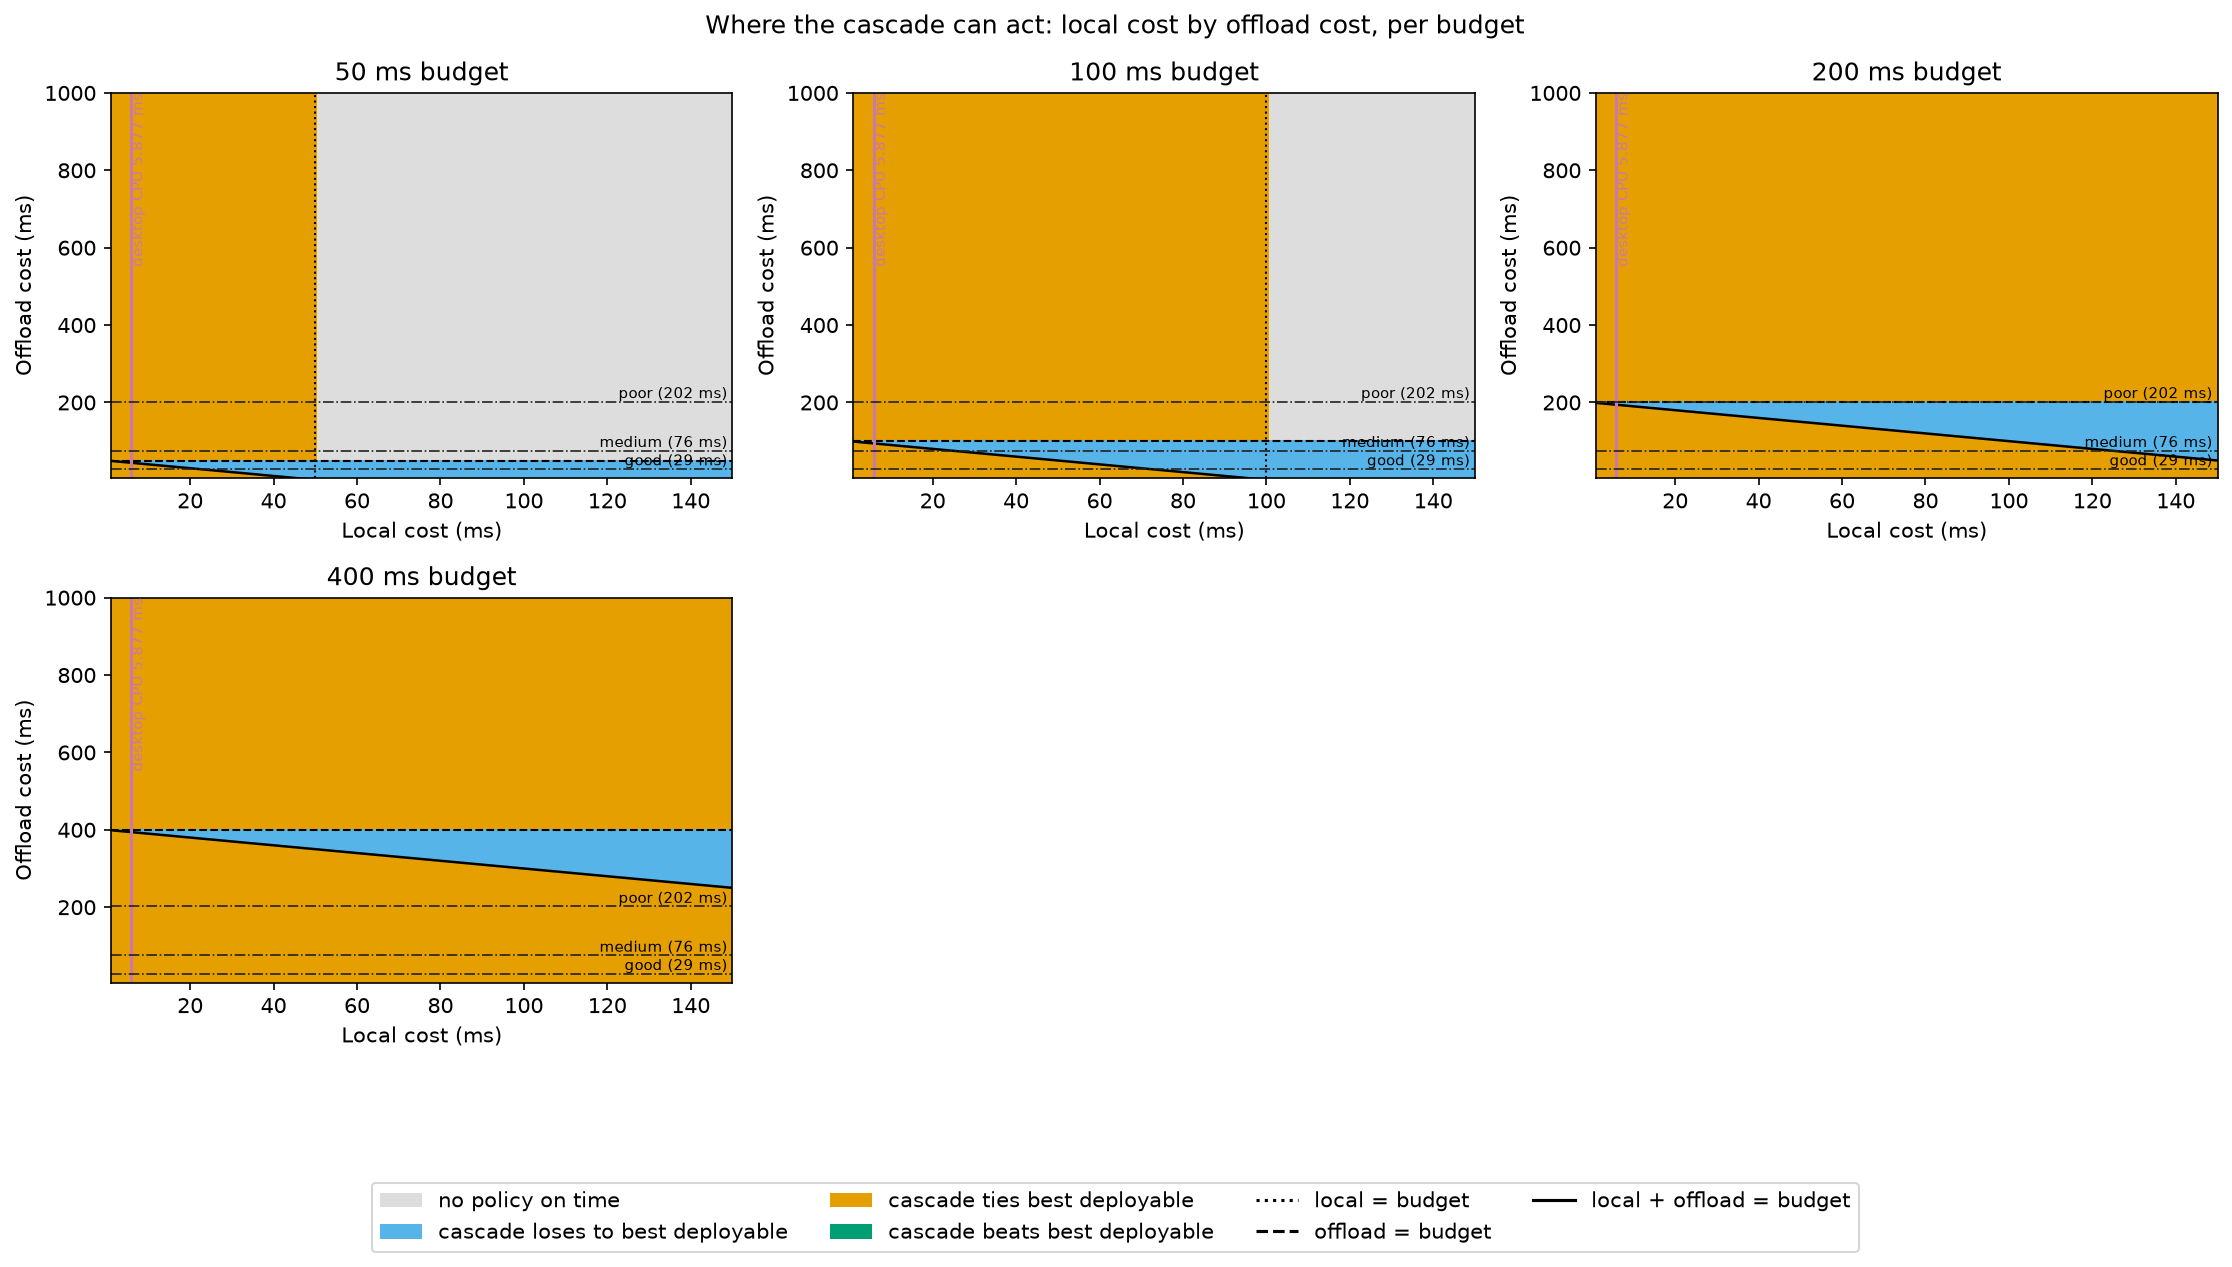
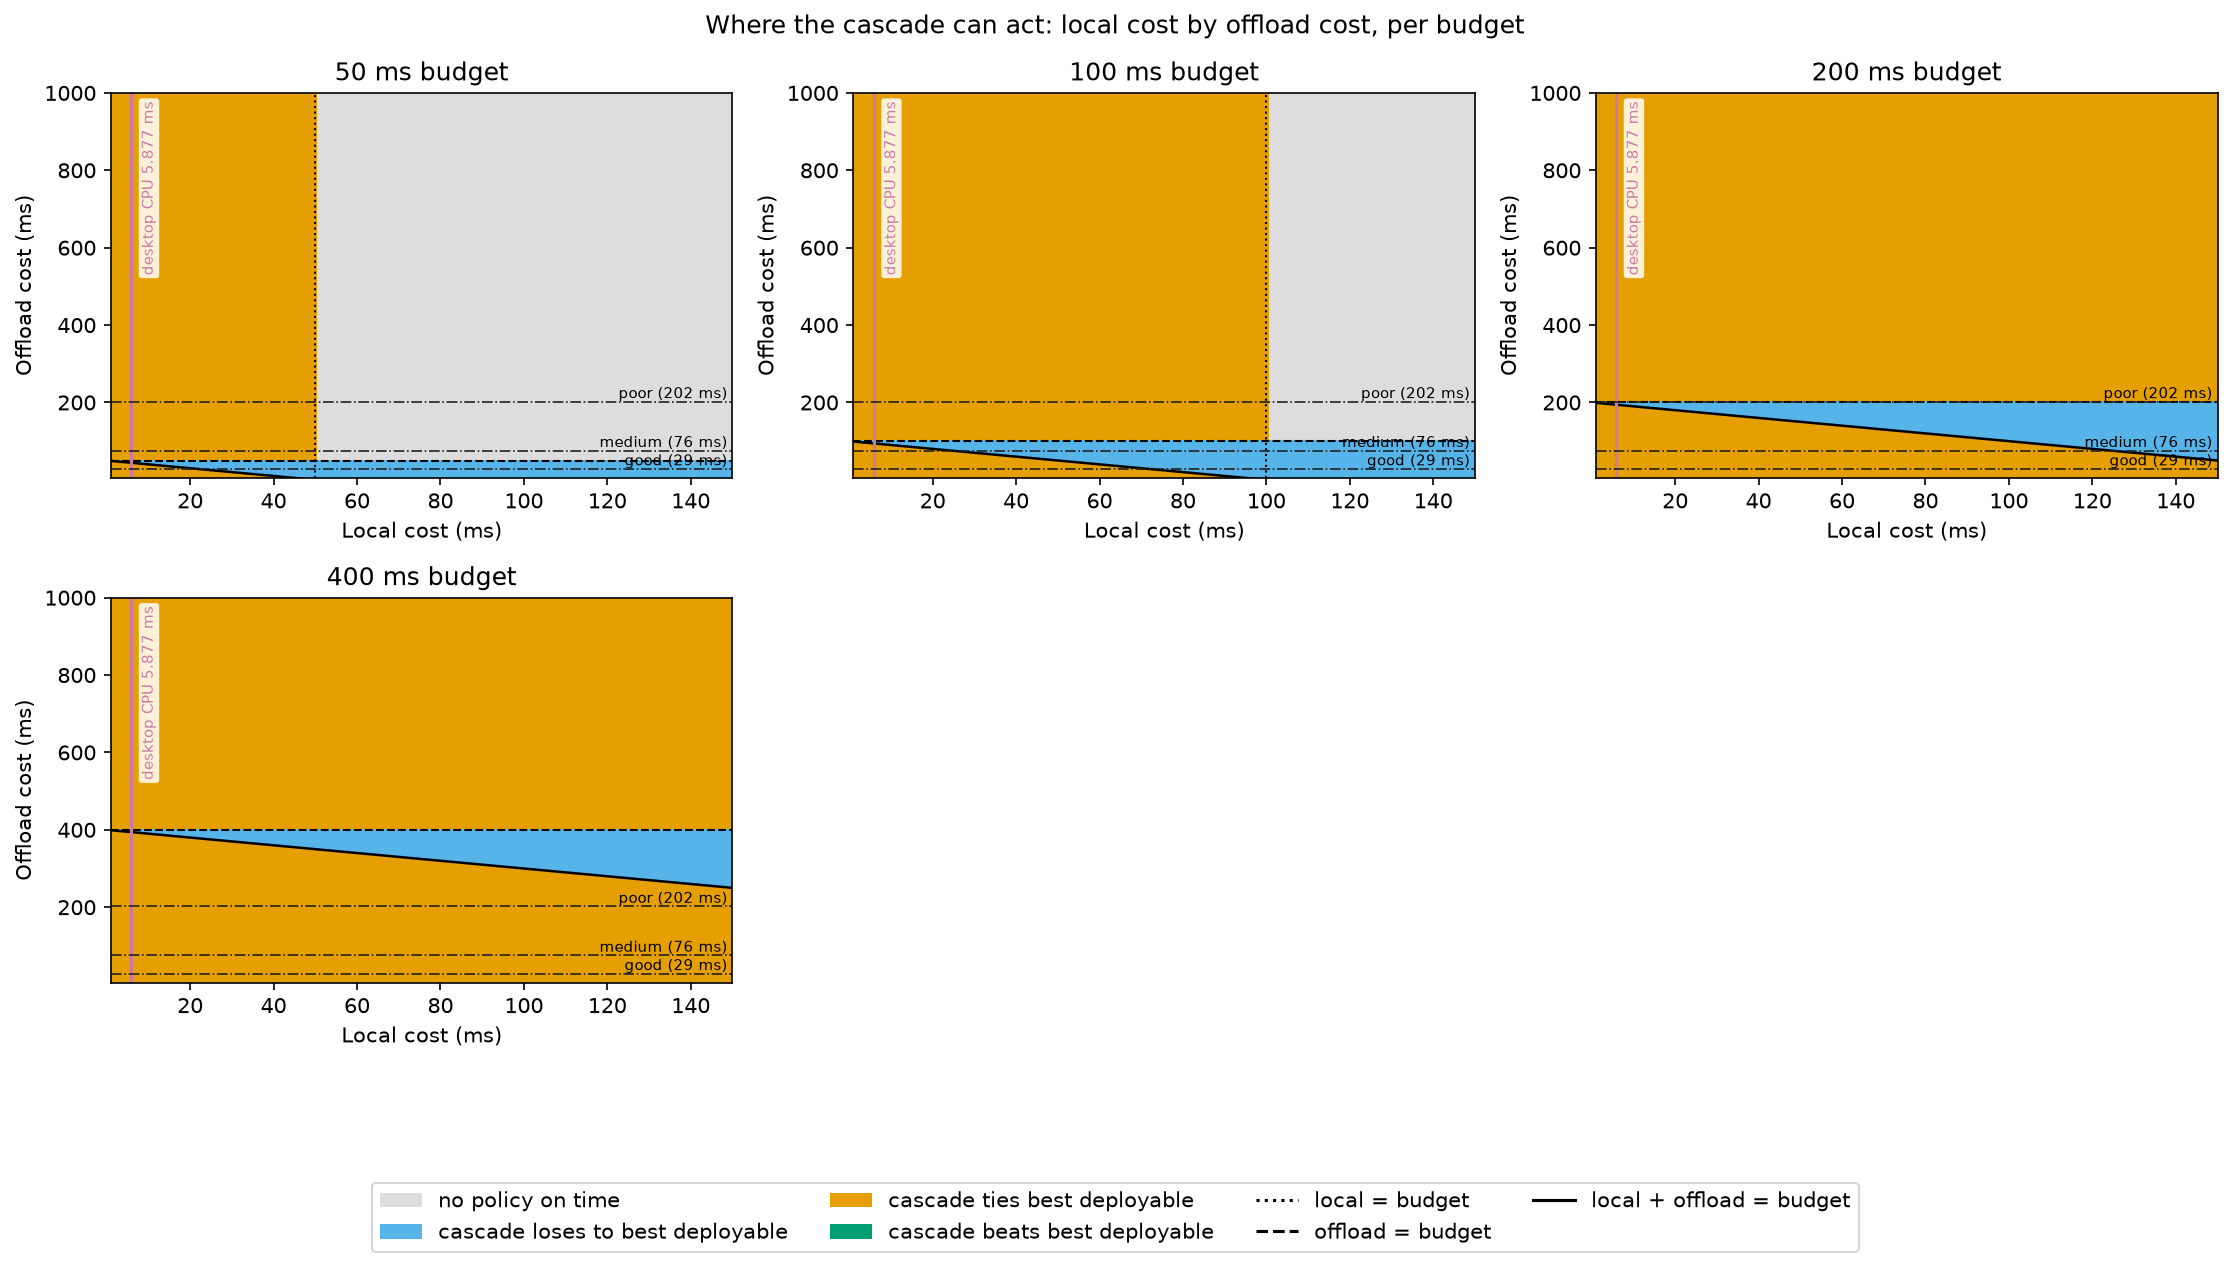
Report the always-local interval and fix the desktop mark label
The spec's acceptance criterion asks for 95% bootstrap intervals against
budget-only and against always-local. `vs_always_local` was computed but
never printed, so the report met only half of it; `format_report` had no
test at all, which is how it slipped through. Adds one.

The interval is worth having: wherever escalation is affordable the cascade
beats always-local by [+0.0803, +0.0999], bracketing the 0.0901 small-to-
large gap. The cascade buys the large model's accuracy and pays local +
offload to do it, so its failure against budget-only is one of redundancy
under a hard budget, not of accuracy. The write-up now says so.

Also gives the desktop-CPU mark a background box; pink on orange inside a
filled region was illegible in the rendered figure.

diff --git a/training/birds/router/boundary_plot.py b/training/birds/router/boundary_plot.py
@@ -119,15 +119,26 @@ def _draw_panel(ax: Axes, panel: BoundaryPanelData, marks: BoundaryMarks) -> Non
 
     # Marks: desktop measurement on the local axis, named conditions on the offload axis.
     ax.axvline(marks.desktop_local_ms, color="#CC79A7", linewidth=1.5)
-    ax.text(
-        marks.desktop_local_ms,
-        offload[-1],
-        f" desktop CPU {marks.desktop_local_ms:g} ms",
+    # Offset in points, not data units, so the label clears the line it annotates instead of
+    # overprinting it at any axis scale.
+    ax.annotate(
+        f"desktop CPU {marks.desktop_local_ms:g} ms",
+        xy=(marks.desktop_local_ms, offload[-1]),
+        xytext=(5, -4),
+        textcoords="offset points",
         color="#CC79A7",
         fontsize=7,
         rotation=90,
         va="top",
         ha="left",
+        # The label sits inside a filled region, so it needs its own background to stay
+        # legible against the fill colours.
+        bbox={
+            "boxstyle": "round,pad=0.2",
+            "facecolor": "white",
+            "edgecolor": "none",
+            "alpha": 0.85,
+        },
     )
     for name, offload_ms in marks.condition_offload_ms.items():
         ax.axhline(offload_ms, color="#222222", linewidth=0.8, linestyle="-.")

diff --git a/training/birds/router/budget_experiment.py b/training/birds/router/budget_experiment.py
@@ -370,10 +370,14 @@ def format_report(
                 ]
                 for measure, c in result.cascades.items():
                     lo, hi = c.vs_budget_only.ci_low, c.vs_budget_only.ci_high
+                    local_lo, local_hi = c.vs_always_local.ci_low, c.vs_always_local.ci_high
+                    # Both intervals are reported, per the spec; only the budget-only one
+                    # decides usefulness.
                     lines.append(
                         f"  cascade ({measure}): threshold {c.threshold:.4f}, escalates "
                         f"{c.escalated_share:.2%}, vs budget-only 95% CI [{lo:+.4f}, {hi:+.4f}] "
-                        f"-> {'useful' if c.useful else 'not useful'}; fewest escalations to "
+                        f"-> {'useful' if c.useful else 'not useful'}; vs always-local 95% CI "
+                        f"[{local_lo:+.4f}, {local_hi:+.4f}]; fewest escalations to "
                         f"match always-offload: {c.fewest_escalations_to_match}"
                     )
         lines.append("")

diff --git a/training/tests/birds/router/test_budget_experiment.py b/training/tests/birds/router/test_budget_experiment.py
@@ -23,6 +23,7 @@ from birds.router.budget_experiment import (
     PhotoRecords,
     evaluate_cell,
     fewest_escalations_to_match,
+    format_report,
     grid_accuracy,
     records_from_frames,
     run_on_engine,
@@ -274,3 +275,14 @@ def test_missing_records_stop_the_run_and_write_nothing(postgres_engine: Engine)
         else:
             raise AssertionError("missing records should stop the run")
         assert not figure.exists()
+
+
+def test_report_shows_both_bootstrap_intervals() -> None:
+    """The spec requires an interval against budget-only *and* against always-local."""
+    result = evaluate_cell(_tiny(), _tiny(), Cell(local_ms=10.0, offload_ms=30.0, budget_ms=50.0))
+    report = format_report({50.0: {"good": [result]}}, {"good": 30.0})
+
+    for measure in ("max_probability", "top2_margin"):
+        assert f"cascade ({measure}): threshold" in report
+    assert "vs budget-only 95% CI" in report
+    assert "vs always-local 95% CI" in report

diff --git a/findings/birds.md b/findings/birds.md
@@ -212,6 +212,9 @@ tables and verdicts below, records one MLflow run, and writes the figure to
 offload cost 5 to 1000 ms in the figure. Every number below came from this run's
 output.
 
+The run is deterministic, as the spec requires: two runs over unchanged records
+produced byte-identical reports, verified by diffing their output.
+
 Existing entry points, re-checked on the same day: `evaluate` reproduces test
 accuracy 0.7798 (small) and 0.8699 (large); `predictions` re-recorded
 5,400 train, 594 val and 5,794 test rows for each model (it replaces rows per
@@ -296,8 +299,7 @@ What it shows:
   dashed line offload does not fit, so the cascade and budget-only both run
   locally.
 - The vertical mark for the desktop small model is drawn in pink at 5.877 ms,
-  but its text label is rotated and overprints the line, so it is hard to read in
-  the rendered image.
+  labelled against a white background so it stays legible over the fill.
 
 ### Where the boundary sits, and how it moves with the budget
 
@@ -651,12 +653,34 @@ entirely above zero. Across the 72 verdicts (36 cells, two confidence measures)
 | Offload but no escalation | 2 | [-0.0998, -0.0803] | not useful (cascade is worse) |
 
 The interval is identical across all cells of a band, and the same for both
-confidence measures, as the band argument predicts. (The experiment also
-computes the cascade's advantage over always-local with its own interval, but
-the printed report shows only the interval against budget-only, so no
-always-local interval is quoted here.) Two noise notes: the validation split is
-only 594 photos, so the tuned threshold is noisy, and that split was already
-used once to select the checkpoints.
+confidence measures, as the band argument predicts.
+
+The interval against always-local tells the other half of the story, and it is
+the more flattering half:
+
+| Band | Cells | Interval vs always-local |
+|---|---|---|
+| Everything | 22 | [+0.0803, +0.0999] |
+| Local only | 12 | [+0.0000, +0.0000] |
+| Offload but no escalation | 2 | [+0.0000, +0.0000] |
+
+So the cascade is not useless in absolute terms. Wherever escalation is
+affordable it beats always-local decisively — the interval sits entirely above
+zero and brackets the 0.0901 small-to-large accuracy gap, meaning the cascade
+recovers essentially the whole of the large model's advantage. Where escalation
+is unaffordable it *is* always-local, exactly, so the difference is zero by
+construction rather than by measurement.
+
+The negative result is therefore narrower than "the cascade does not work": the
+cascade buys the large model's accuracy, but it pays local + offload latency to
+do so, while plain always-offload buys the same accuracy for offload alone. Its
+failure is one of redundancy under a hard budget, not of accuracy. Usefulness is
+defined against budget-only precisely because budget-only already picks the
+better of the two static policies in each cell, so it is the comparison that can
+embarrass the cascade — and it does.
+
+Two noise notes: the validation split is only 594 photos, so the tuned threshold
+is noisy, and that split was already used once to select the checkpoints.
 
 ### Fewest offload calls at which the cascade matches always-offload
 
